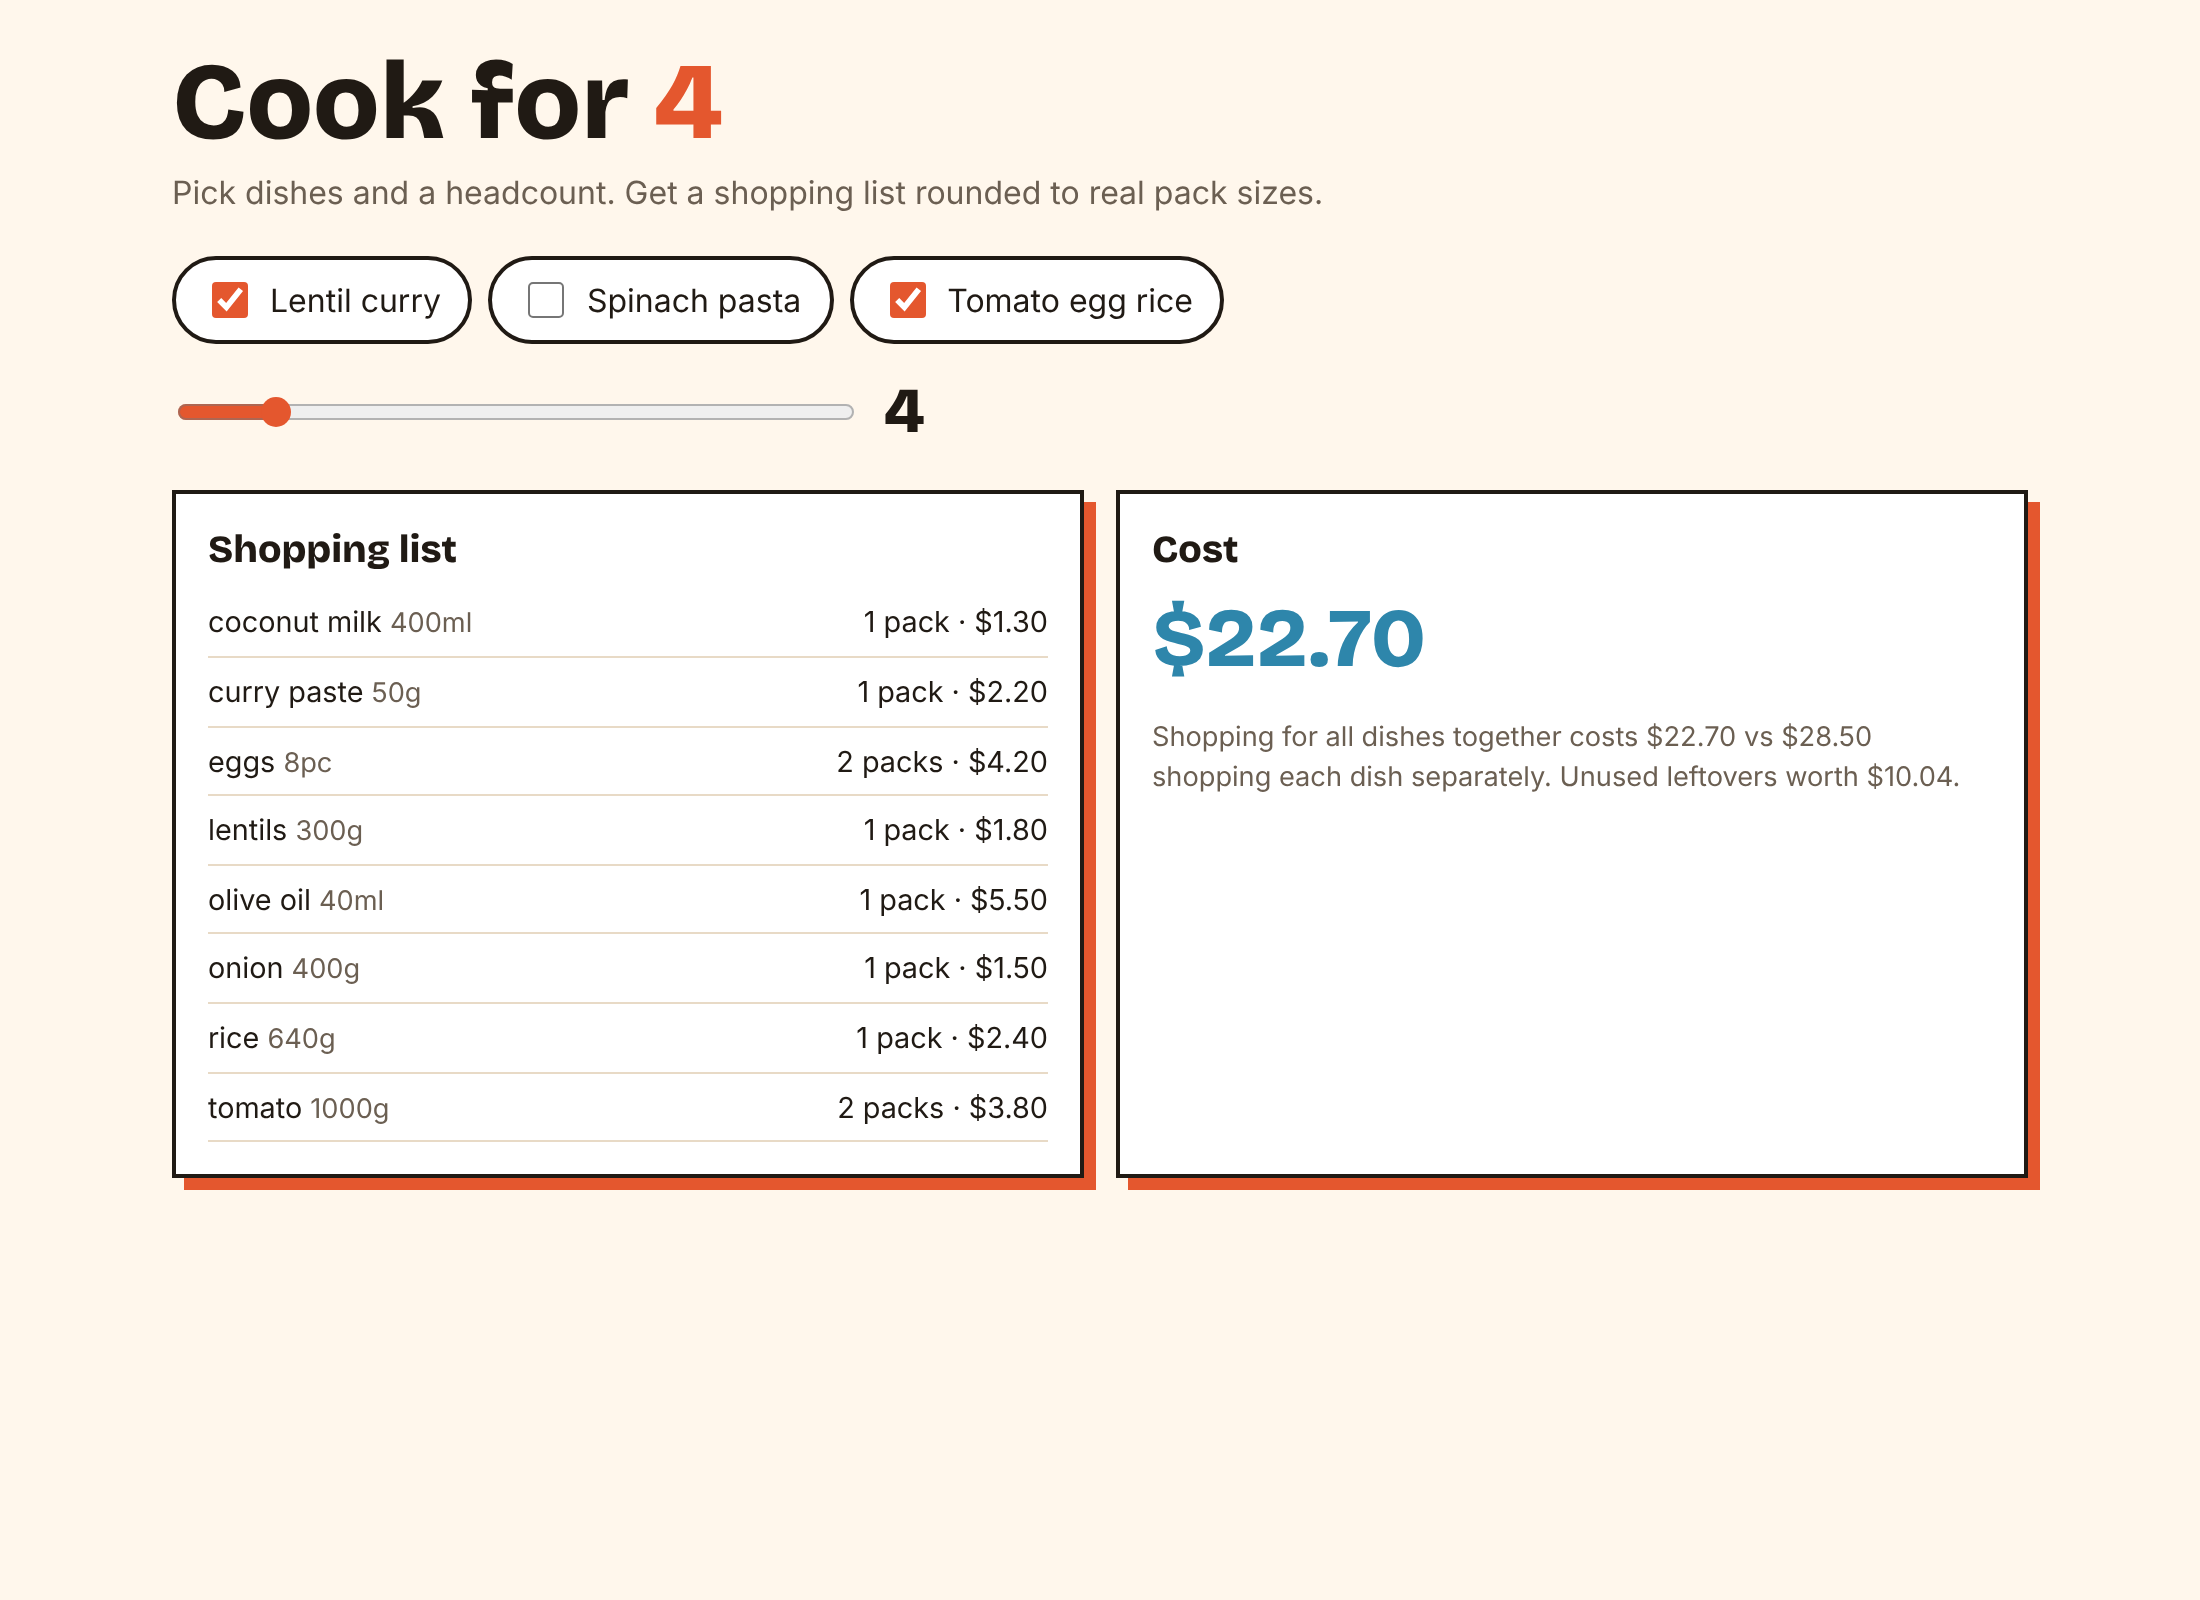
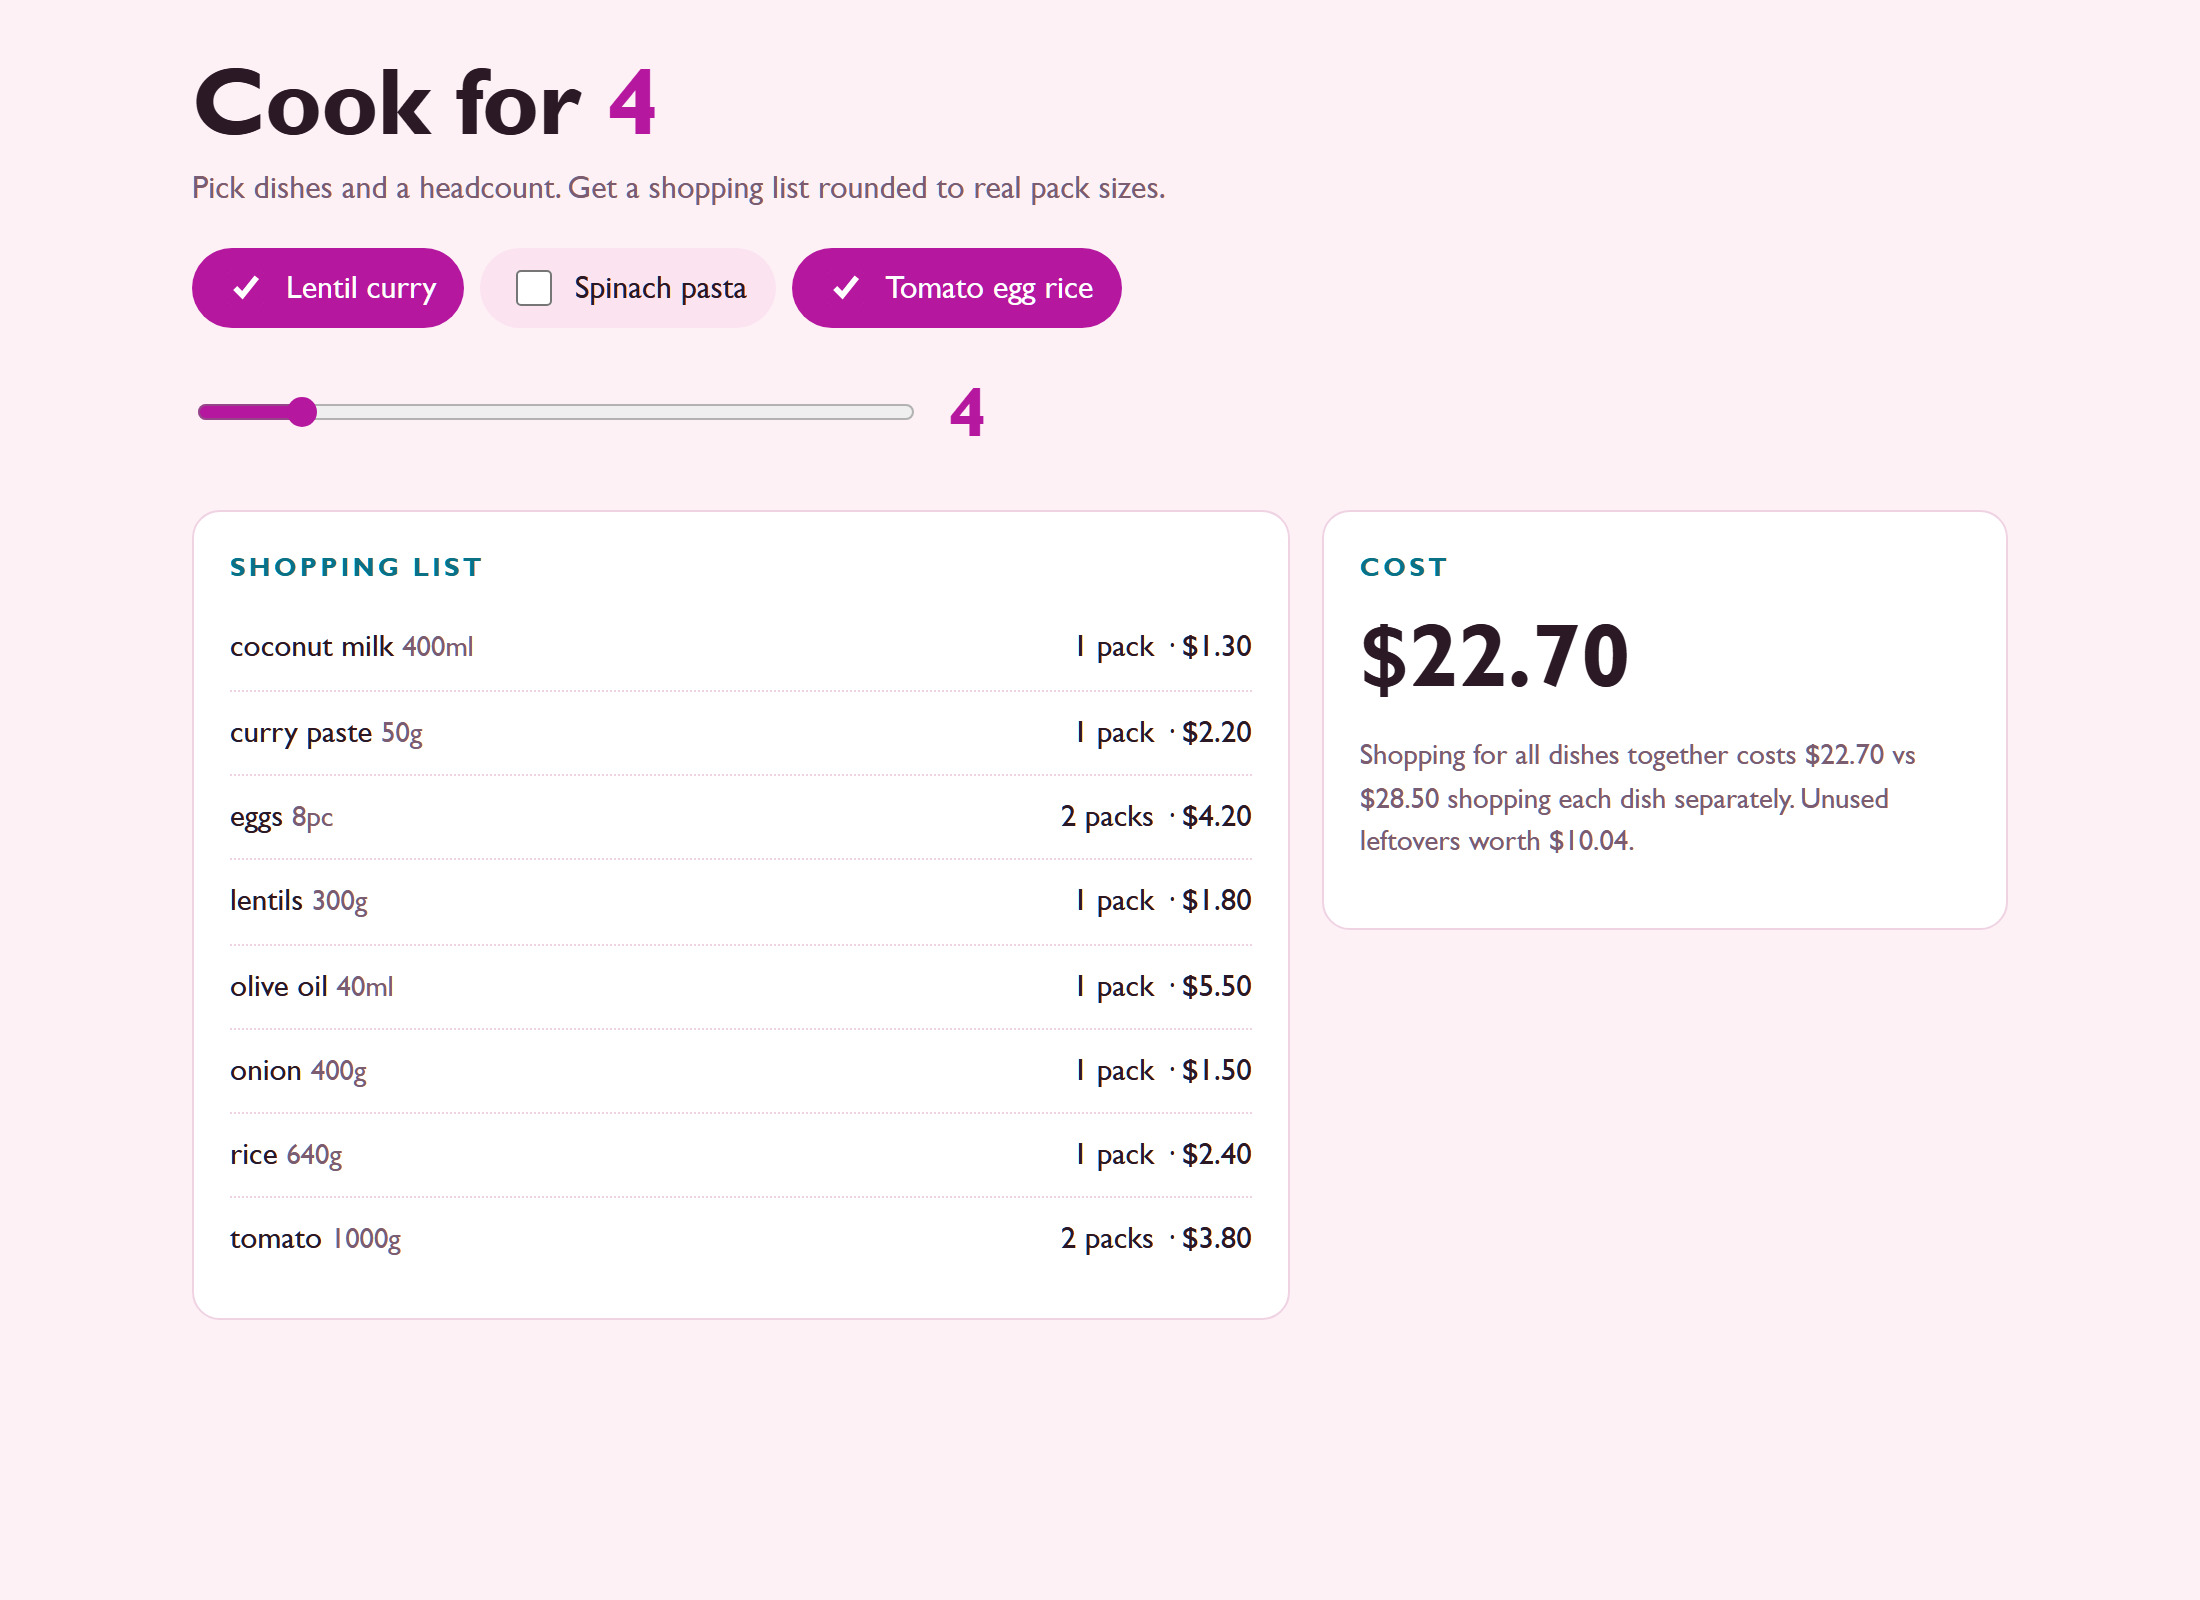
Redesign frontend: recipe-scaler-shopping-list

diff --git a/static/index.html b/static/index.html
@@ -1,25 +1,38 @@
 <!doctype html><html lang="en"><head><meta charset="utf-8"><meta name="viewport" content="width=device-width,initial-scale=1"><title>Cook For N</title>
-<link href="https://fonts.googleapis.com/css2?family=Bricolage+Grotesque:wght@600;800&family=Inter:wght@400;600&display=swap" rel="stylesheet">
 <style>
-:root{--bg:#fff7ec;--ink:#201a14;--mute:#6b5f52;--pop:#e4572e;--pop2:#2e86ab;--card:#ffffff;--line:#e8dac6}
-@media(prefers-color-scheme:dark){:root{--bg:#171310;--ink:#f6ecde;--mute:#b3a592;--pop:#ff7a52;--pop2:#62b7da;--card:#221c17;--line:#3b3128}}
-*{box-sizing:border-box}body{margin:0;background:var(--bg);color:var(--ink);font:16px/1.5 Inter,sans-serif}
-main{max-width:960px;margin:auto;padding:24px 16px 56px}h1{font:800 clamp(2rem,6vw,3.4rem)/1 "Bricolage Grotesque";margin:0}h1 span{color:var(--pop)}
-.sub{color:var(--mute);margin:6px 0 20px}.pick{display:flex;flex-wrap:wrap;gap:8px;margin-bottom:14px}
-.pick label{display:flex;align-items:center;gap:8px;min-height:44px;padding:0 14px;border:2px solid var(--ink);background:var(--card);cursor:pointer;border-radius:999px;transition:transform 150ms}
-.pick label:hover{transform:translateY(-2px)}input[type=checkbox]{accent-color:var(--pop);width:18px;height:18px}
-.n{display:flex;align-items:center;gap:12px;margin-bottom:20px}input[type=range]{flex:1;max-width:340px;accent-color:var(--pop)}.num{font:800 2rem "Bricolage Grotesque";min-width:2.5ch}
+:root{--bg:#fdf1f6;--ink:#2b1a26;--mute:#7a5d70;--pop:#b5179e;--pop2:#0b7285;--card:#ffffff;--line:#efd3e3;--chip:#fbe3f0;color-scheme:light}
+@media(prefers-color-scheme:dark){:root:not([data-theme="light"]){--bg:#1c1119;--ink:#f7e9f2;--mute:#c0a3b5;--pop:#f06ad0;--pop2:#5fd0e4;--card:#2a1a25;--line:#43283a;--chip:#3a2232;color-scheme:dark}}
+:root[data-theme="dark"]{--bg:#1c1119;--ink:#f7e9f2;--mute:#c0a3b5;--pop:#f06ad0;--pop2:#5fd0e4;--card:#2a1a25;--line:#43283a;--chip:#3a2232;color-scheme:dark}
+*{box-sizing:border-box}
+html,body{background:var(--bg)}
+body{margin:0;color:var(--ink);font:16px/1.5 "Gill Sans","Gill Sans MT",Calibri,sans-serif}
+main{max-width:940px;margin:auto;padding:26px 16px 56px}
+h1{margin:0;font-size:clamp(2rem,6vw,3rem);line-height:1;font-weight:700;letter-spacing:-.01em}
+h1 span{color:var(--pop)}
+.sub{color:var(--mute);margin:8px 0 18px}
+.pick{display:flex;flex-wrap:wrap;gap:8px;margin-bottom:16px}
+.pick label{display:flex;align-items:center;gap:8px;min-height:40px;padding:0 14px;border-radius:999px;background:var(--chip);cursor:pointer;transition:background 150ms}
+.pick label:has(input:checked){background:var(--pop);color:#fff}
+.pick label:has(input:focus-visible){outline:3px solid var(--pop2);outline-offset:2px}
+input[type=checkbox]{accent-color:var(--pop);width:18px;height:18px}
+.n{display:flex;align-items:center;gap:14px;margin-bottom:22px}
+input[type=range]{flex:1;max-width:360px;accent-color:var(--pop)}
+.num{font-size:2.2rem;font-weight:700;min-width:2.5ch;color:var(--pop)}
 :focus-visible{outline:3px solid var(--pop2);outline-offset:2px}
-.grid{display:grid;grid-template-columns:repeat(auto-fit,minmax(min(300px,100%),1fr));gap:16px}
-.card{background:var(--card);border:2px solid var(--ink);padding:16px;box-shadow:6px 6px 0 var(--pop);animation:in .3s}@keyframes in{from{opacity:0;transform:translateY(6px)}}
-.card h2{font:800 1.2rem "Bricolage Grotesque";margin:0 0 8px}.l{display:flex;justify-content:space-between;gap:8px;padding:6px 0;border-bottom:1px solid var(--line);font-size:.9rem}
-.big{font:800 2.6rem "Bricolage Grotesque";color:var(--pop2)}.mute{color:var(--mute);font-size:.85rem}
-@media(prefers-reduced-motion:reduce){*{animation:none!important;transition:none!important}}
+.layout{display:grid;grid-template-columns:1.6fr 1fr;gap:16px;align-items:start}
+@media(max-width:760px){.layout{grid-template-columns:1fr}}
+.card{background:var(--card);border:1px solid var(--line);border-radius:14px;padding:18px}
+.card h2{font-size:.82rem;font-weight:700;text-transform:uppercase;letter-spacing:.12em;margin:0 0 10px;color:var(--pop2)}
+.l{display:flex;justify-content:space-between;gap:12px;padding:9px 0;border-bottom:1px dotted var(--line);font-size:.97rem}
+.l:last-child{border-bottom:0}
+.big{font-size:2.8rem;font-weight:700;color:var(--ink);line-height:1.1}
+.mute{color:var(--mute);font-size:.9rem}
+@media(prefers-reduced-motion:reduce){*{transition:none!important}}
 </style></head><body><main>
 <h1>Cook for <span id="hn">4</span></h1><p class="sub">Pick dishes and a headcount. Get a shopping list rounded to real pack sizes.</p>
 <div class="pick" id="pick" role="group" aria-label="Dishes"></div>
 <div class="n"><input type="range" id="ppl" min="1" max="24" value="4" aria-label="People"><span class="num" id="pn">4</span></div>
-<div class="grid"><section class="card" aria-live="polite"><h2>Shopping list</h2><div id="list"></div></section>
+<div class="layout"><section class="card" aria-live="polite"><h2>Shopping list</h2><div id="list"></div></section>
 <section class="card" aria-live="polite"><h2>Cost</h2><div class="big" id="tot"></div><p class="mute" id="note"></p></section></div></main>
 <script>
 const $=i=>document.getElementById(i),m=n=>"$"+n.toFixed(2);let names=[];
